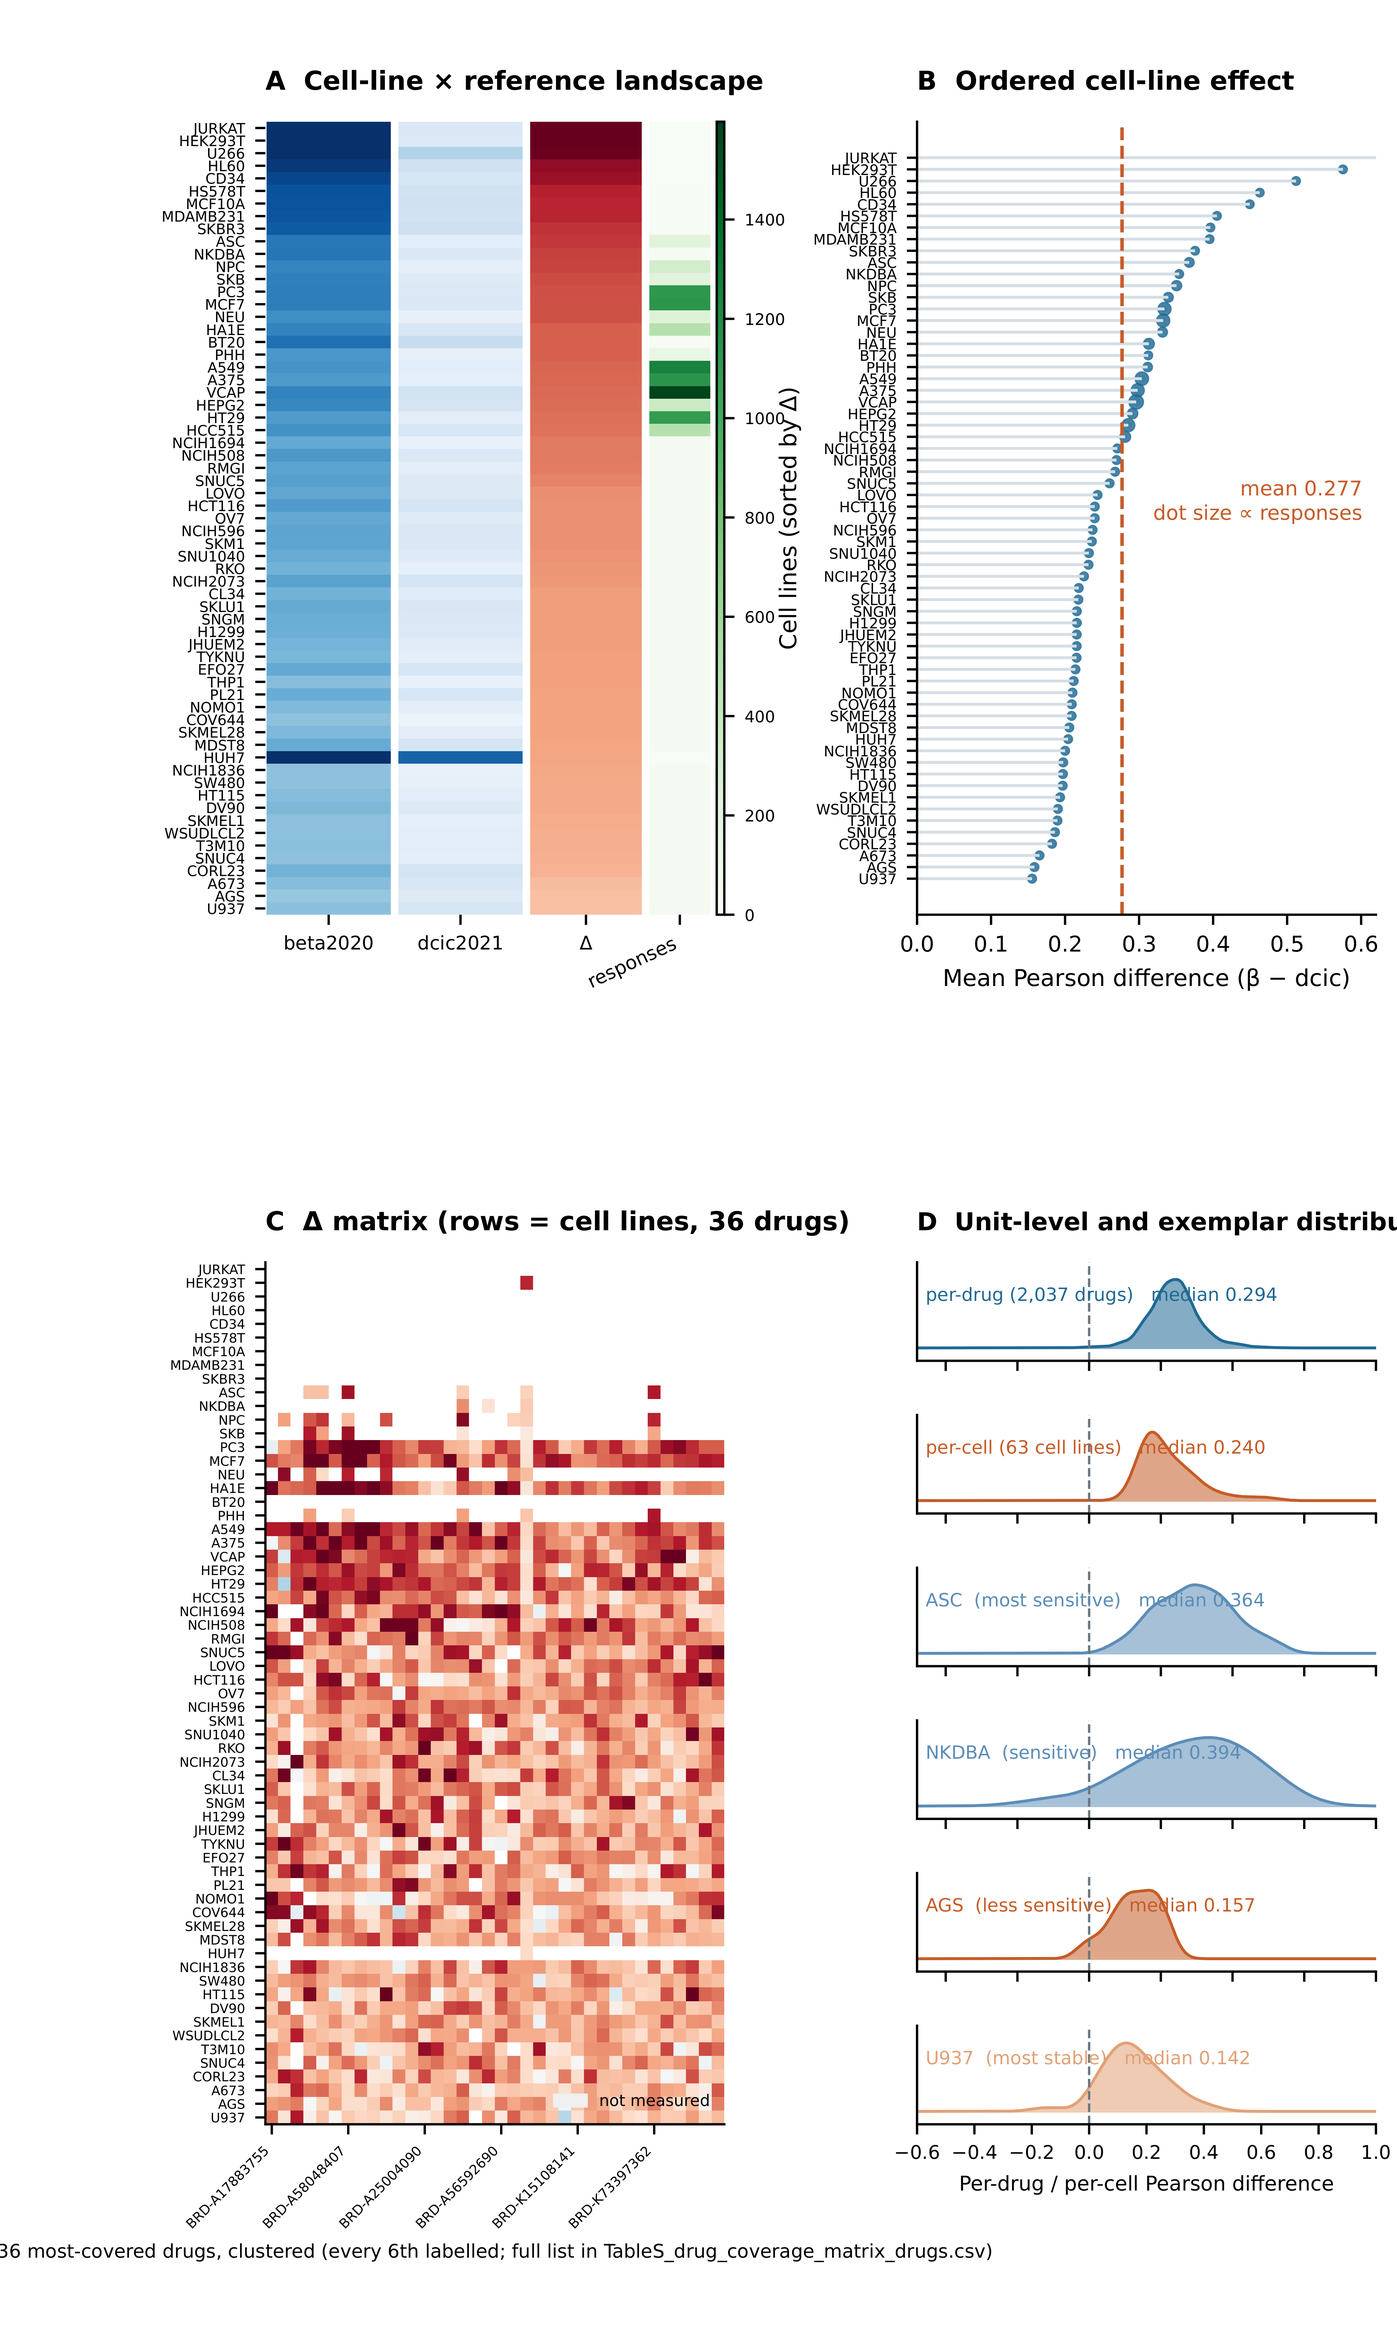
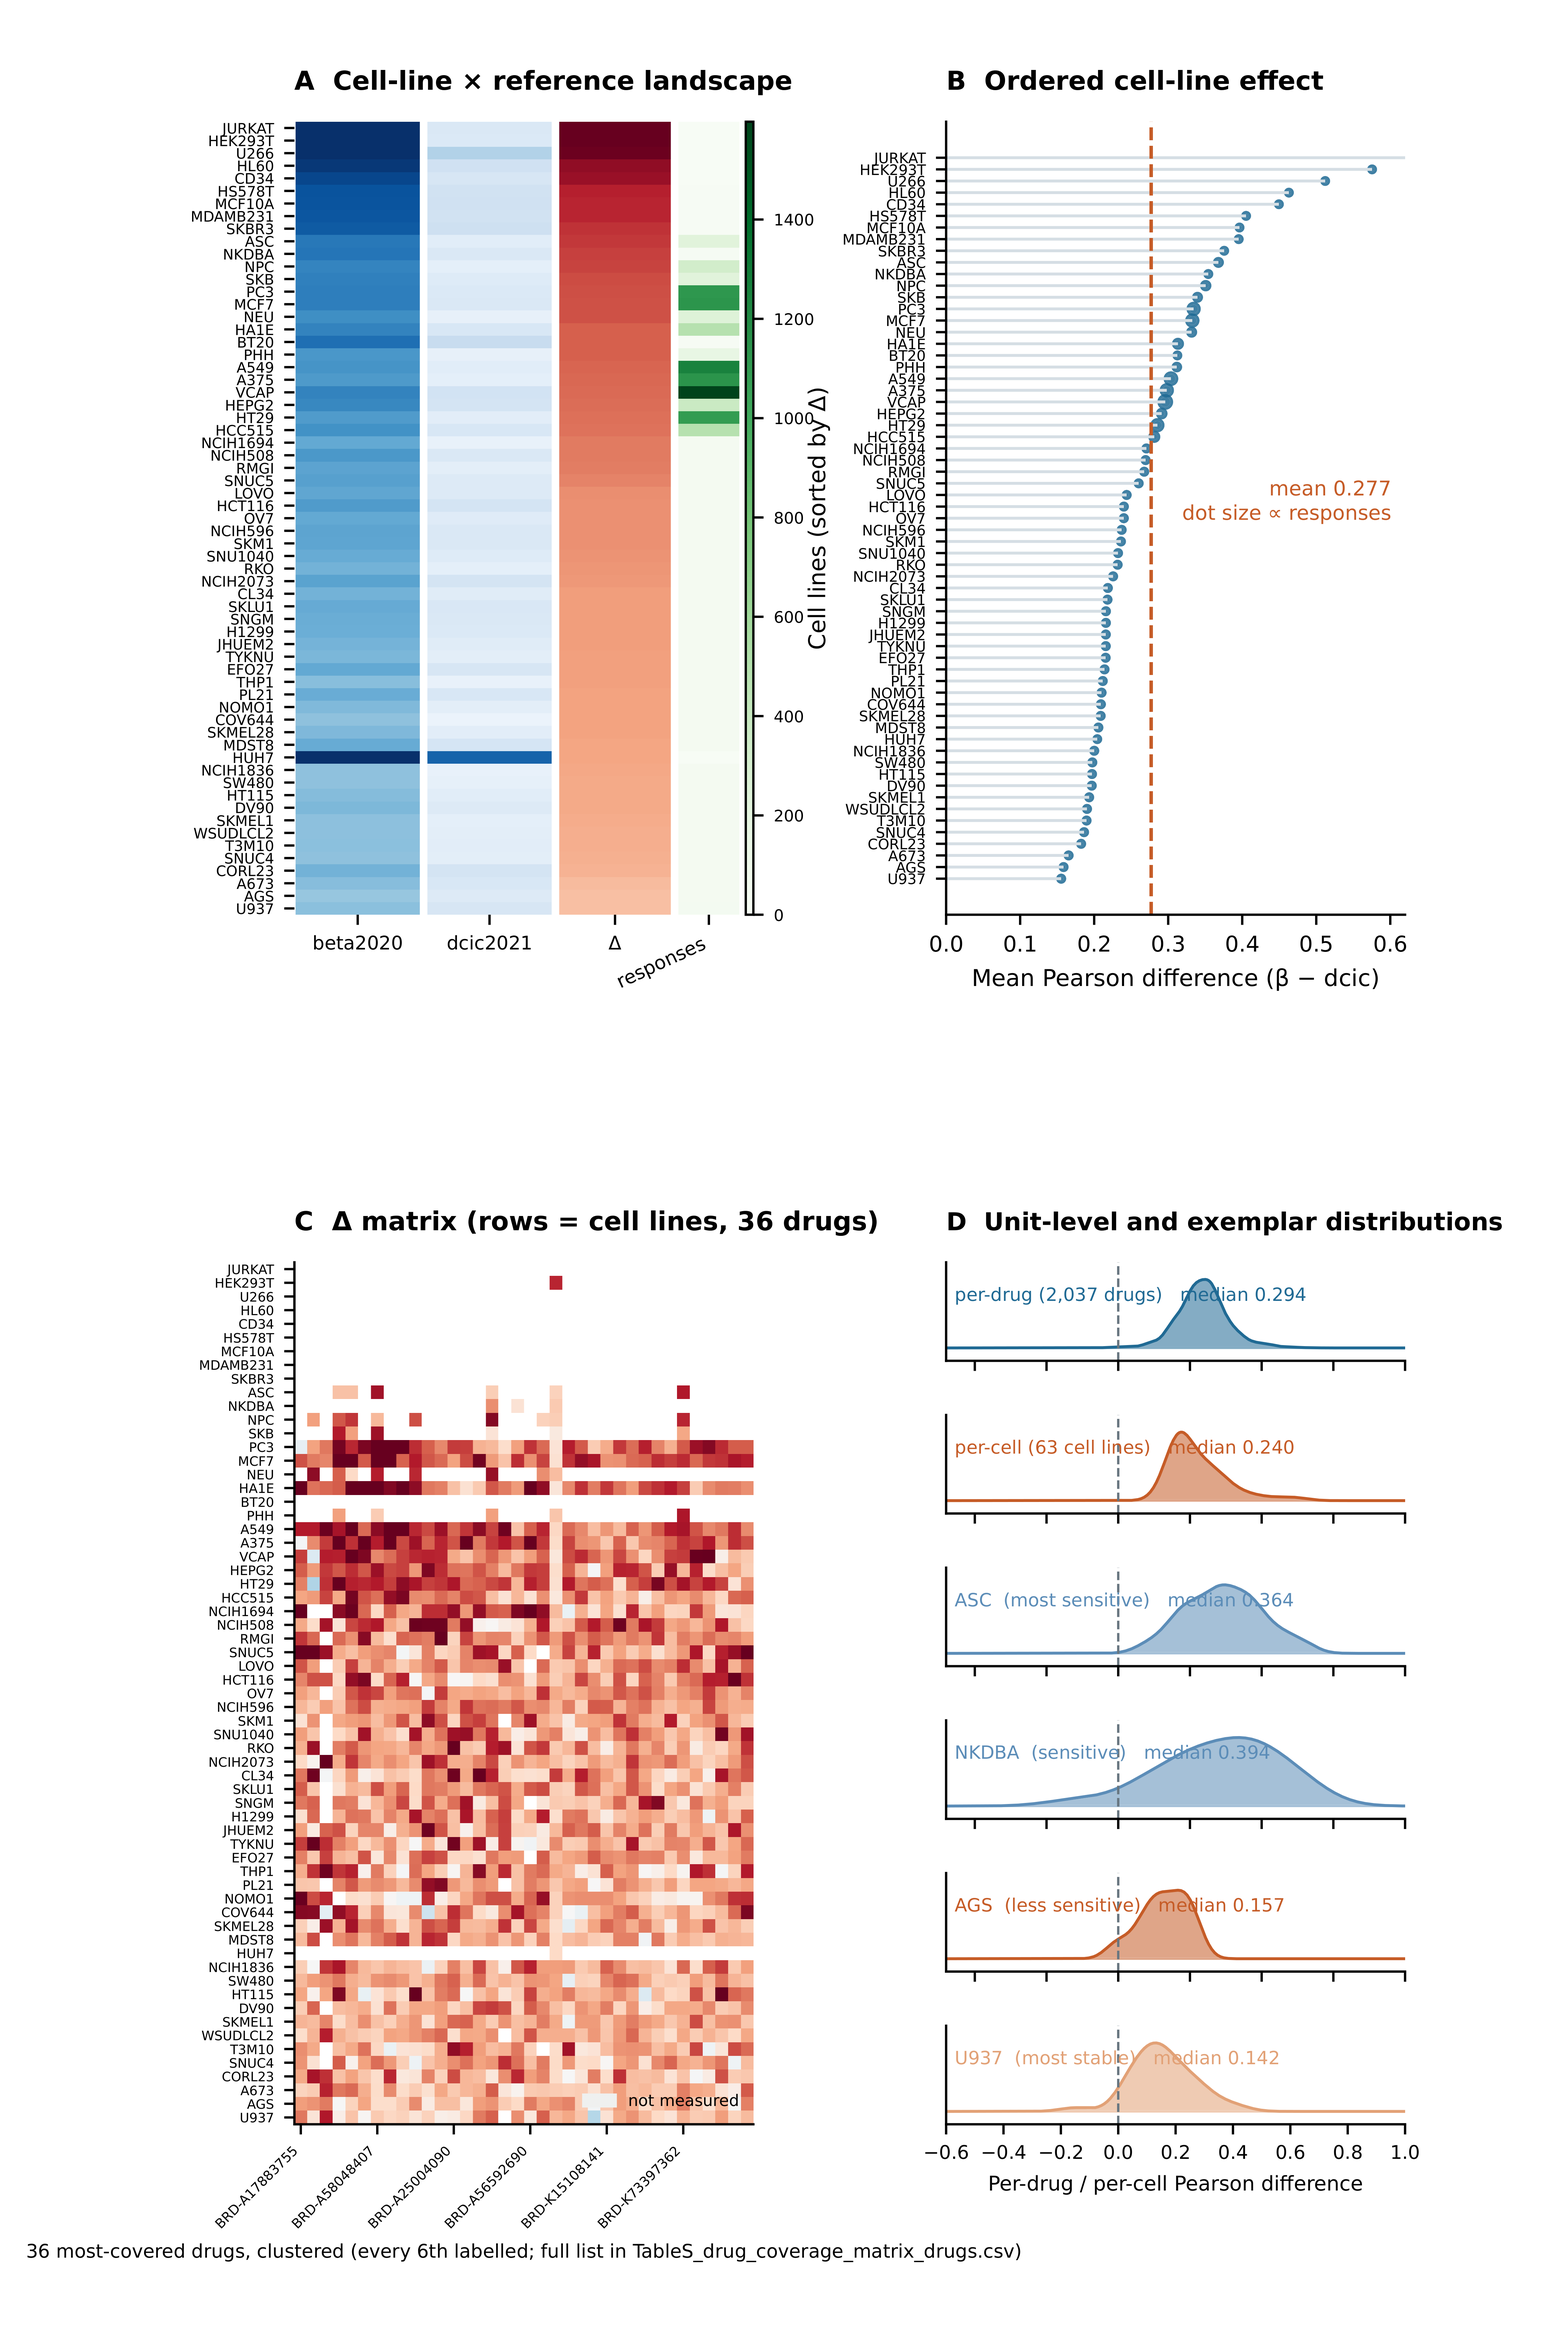
Widen S1 page box for side margins; correct S28 driver location in map and audit

diff --git a/REPRODUCTION_MAP.md b/REPRODUCTION_MAP.md
@@ -18,7 +18,12 @@
 | GTEx interaction 0.07096 / 0.06187 (median of medians) | `github/analysis/07_bootstrap.py` (step `07` of the GTEx sequence `00`–`09` in the same directory) | `zenodo/source_data/gtex_reference_sensitivity` (per-sample scores) | S8, S10–S12 |
 | Figures 1–7 and single panels | `github/analysis/figure_build/*.py` | `zenodo/source_data/figure_source_data` | same-named files in `zenodo/figures/` |
 
-> Permutation control: `S28_permutation_scheme_comparison.csv` holds all three schemes — A (positional), B (within-cell-line), and C (within-cell-line restricted to strata that admit a complete drug-identity derangement; 6,800 of 6,892 records, 92 single-record strata excluded) — with observed values, null means, 95% intervals, empirical P values and record counts. `build_S28_v2.py` produced this table and audited every permutation: across 2,000 permutations per scheme no record kept its original drug and no fallback construction was needed, recorded in `S28_permutation_constraint_check.csv`. **That driver is not part of this repository** (see the known-gaps list in `PACKAGE_AUDIT_20261120.md`), so the permutation tables can be checked from the CSV — observed values, null means, intervals, empirical P values, record counts — but not regenerated end to end here. `S31` remains the unrestricted substitution analysis; it was computed with an earlier release of the substitution pipeline, so its observed values differ from scheme A in the fourth decimal place (0.61990 versus 0.61972 for SDST/XPert) and it is labelled as a historical comparison. Table 4 reports results calculated from the original public predictions and is the main result (SDST/XPert 0.61990, beta2020/XPert 0.03249, with their original bootstrap CIs). The permutation analyses used XPert predictions regenerated with an SDPA attention fallback; observed scores and permutation null distributions from that implementation are reported separately per scheme (A/B: 0.61972 / 0.03257; C: 0.61997 / 0.03250). Table 4 uses 1,343 drugs; scheme C excludes singleton strata and evaluates 1,342 drugs over 6,800 model records, so the two are different analysis sets. The replayed point estimates are not paired with the original-prediction CIs.
+> Permutation control: `S28_permutation_scheme_comparison.csv` holds all three schemes — A (positional), B (within-cell-line), and C (within-cell-line restricted to strata that admit a complete drug-identity derangement; 6,800 of 6,892 records, 92 single-record strata excluded) — with observed values, null means, 95% intervals, empirical P values and record counts. `build_S28_v2.py` produced this table and audited every permutation: across 2,000 permutations per scheme no record kept its original drug and no fallback construction was needed, recorded in `S28_permutation_constraint_check.csv`. The driver is `github/analysis/supplementary_rebuild_S23_S28/build_S28_v2.py`, with `config_paths.py` and a
+`README.md` that lists the directory layout, the external inputs that are fetched rather than redistributed
+(the XPert SDST h5ad, the two per-pair LINCS caches, the benchmark prediction folders), and the commands for
+S27–S29. Point `GIGASCIENCE_ROOT` at a directory holding `source_data/` (the archived tree), `external/` and
+`work/`, then run the script; it re-derives the 1,343-drug set, replays the three schemes and rewrites
+`S28_permutation_scheme_comparison.csv`. `S31` remains the unrestricted substitution analysis; it was computed with an earlier release of the substitution pipeline, so its observed values differ from scheme A in the fourth decimal place (0.61990 versus 0.61972 for SDST/XPert) and it is labelled as a historical comparison. Table 4 reports results calculated from the original public predictions and is the main result (SDST/XPert 0.61990, beta2020/XPert 0.03249, with their original bootstrap CIs). The permutation analyses used XPert predictions regenerated with an SDPA attention fallback; observed scores and permutation null distributions from that implementation are reported separately per scheme (A/B: 0.61972 / 0.03257; C: 0.61997 / 0.03250). Table 4 uses 1,343 drugs; scheme C excludes singleton strata and evaluates 1,342 drugs over 6,800 model records, so the two are different analysis sets. The replayed point estimates are not paired with the original-prediction CIs.
 
 > Checking convention: all key numbers use tolerance 5×10⁻⁴; interval endpoints 1×10⁻³. The one-by-one comparison
 > script is `github/analysis/stability_checks/_audit_numbers.py`, driven by `EXPECTED_OUTPUTS.json`.

diff --git a/PACKAGE_AUDIT_20261120.md b/PACKAGE_AUDIT_20261120.md
@@ -98,9 +98,11 @@
    `github/analysis/rebuild_X_TPM.py`：按 `cell_order.txt` 取行、列序即基因轴、float32，输出 sha256。
    重建是否正确的判据是重跑正对照后 S13–S15 是否复现（脚本会打印形状与哈希）。`run_all.sh` 在该文件缺失时
    跳过此步并给出提示，其余步骤照常完成。
-2. **S28 置换表的生成脚本不在仓库内**。`build_S28_v2.py` 是当时的驱动脚本，未随包提供，因此
-   `S28_*` 只能从 CSV 核对（观测值、零分布均值、区间、经验 P 值、记录数），不能在仓库内端到端重跑。
-   已在 `REPRODUCTION_MAP.md` 就地标注。
+2. ~~S28 置换表的生成脚本不在仓库内~~ **已更正（11-24 复核）：脚本本就在仓库内**，路径
+   `github/analysis/supplementary_rebuild_S23_S28/build_S28_v2.py`，同目录还有 `config_paths.py` 和
+   `README.md`（目录布局、外部输入来源、S27–S29 命令）。此前记成缺失是检索失误，`REPRODUCTION_MAP.md`
+   的对应说明已改写。设置 `GIGASCIENCE_ROOT`（其下需 `source_data/`、`external/`、`work/`）即可重跑，
+   `config_paths.py` 会打印解析后的每个路径。
 3. **GTEx 原始 per-sample 矩阵未随包发布**（两个 5.9 GB 下载）。`06_score_2x2.py` 因此无法从零重跑；
    它产出的 `results/per_sample_scores.csv` 已归档，`run_all.sh` 用该中间文件跑 `07_bootstrap.py`，
    并由第 1 步重生成 S8、S10–S12。
